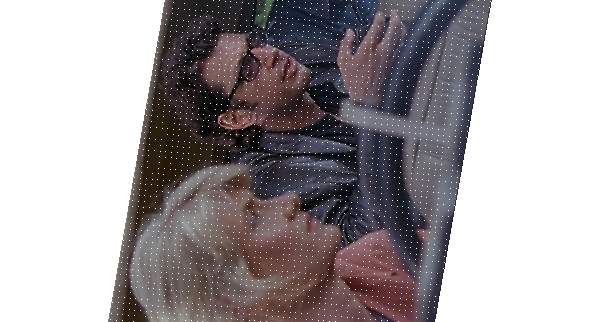
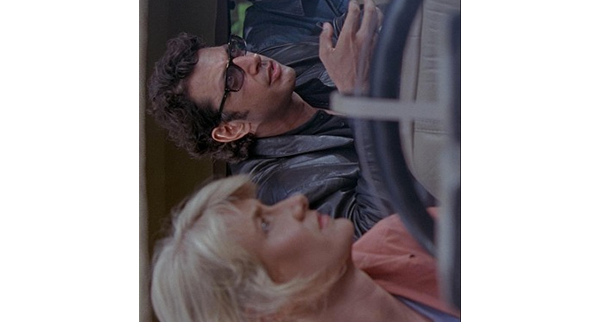
minor changes

diff --git a/1.Image_Rotation/image_rotation_nobound.py b/1.Image_Rotation/image_rotation_nobound.py
@@ -2,18 +2,6 @@ from PIL import Image
 import numpy as np
 import math
 
-
-# def rot_perfect_angles(image1,turns):
-#     if turns==0:
-#         return image1
-#     else :
-#         image=np.zeros((image1.shape[1],image1.shape[0],image1.shape[2]))
-#         for j in range(image1.shape[0]): 
-#             for i in range(image1.shape[1]): 
-#                 image[i,j,:] = image1[j,i,:]  
-#         return rot(image[::-1],turns-1)
-
-
 def floating_point(number):
     temp=int(number)
     if number>temp:
@@ -32,27 +20,16 @@ def mat_Multi(angle,x,y,k):
     return round(X),round(Y)
 
 def rot(image,angle):
+
     # Define the most occuring variables
     angle=math.radians(angle)
     cosine=math.cos(angle)
     sine=math.sin(angle)
-    
     image1=np.zeros_like(image)
-
-    # Define the height and width of the new image that is to be formed
-    # new_height = floating_point(abs(image.shape[0]*cosine)+abs(image.shape[1]*sine))
-    # new_width  = floating_point(abs(image.shape[1]*cosine)+abs(image.shape[0]*sine))
-
-    # image1=np.zeros((new_width,new_height,image.shape[2]))
 
     # Find the centre of the image about which we have to rotate the image
     centre_row   = round(((image.shape[0]+1)/2)-1)
     centre_column= round(((image.shape[1]+1)/2)-1)
-
-    # centre_height= round(((new_height+1)/2)-1)
-    # centre_width= round(((new_width+1)/2)-1)
-
-    # Now let's traverse through the image matrix
     for i in range(image.shape[0]):
             for j in range(image.shape[1]):
                 y=image.shape[0]-1-i-centre_row
@@ -63,16 +40,23 @@ def rot(image,angle):
                 Y=centre_row-Y
                 if X<image1.shape[1] and Y<image1.shape[0] and X>=0 and Y>=0:
                     image1[Y,X,:]=image[i,j,:]
+    for i in range(image1.shape[0]):
+        prev = [image1[i][0][0], image1[i][0][1], image1[i][0][2], image1[i][0][3]]
+        for j in range(image1.shape[1]-1):
+            if (not any(image1[i][j][:])):
+                if (any(image1[i][j+1][:])):
+                    image1[i][j][:] = prev
+            else:
+                prev = image1[i][j][:]
     return image1
             
 
             
 
 
-file_name="rotate.png"
+file_name=input("Enter the name of the file:- ")
 im = np.array(Image.open(file_name))
-#rotation_angle=int(input("Enter the no. of turns in clockwise direction(by 90 degree) :- "))
-im_copy=rot(im,80)
+rotation_angle=float(input("Enter the no. of turns in clockwise direction(by 90 degree) :- "))
+im_copy=rot(im,rotation_angle)
 pil_img=Image.fromarray((im_copy).astype(np.uint8))
-pil_img.save("Rotated.png")
-
+pil_img.save("rotated_without_bound.png")

diff --git a/1.Image_Rotation/image_rotation_bound.py b/1.Image_Rotation/image_rotation_bound.py
@@ -1,0 +1,69 @@
+from PIL import Image
+import numpy as np
+import math
+
+def floating_point(number):
+    temp=int(number)
+    if number>temp:
+        return round(temp+1)
+    else :
+        return round(temp)
+
+def mat_Multi(angle,x,y,k):
+    tangent=math.tan(angle/2)
+    if k==0 or k==2:
+        X=x-y*tangent
+        Y=y
+    else:
+        X=x
+        Y=x*math.sin(angle)+y
+    return round(X),round(Y)
+
+def rot(image,angle):
+    # Define the most occuring variables
+    angle=math.radians(angle)
+    cosine=math.cos(angle)
+    sine=math.sin(angle)
+    
+    # Define the height and width of the new image that is to be formed
+    new_width = floating_point(abs(image.shape[0]*cosine)+abs(image.shape[1]*sine))
+    new_height  = floating_point(abs(image.shape[1]*cosine)+abs(image.shape[0]*sine))
+
+    image1=np.zeros((floating_point(new_width),floating_point(new_height),image.shape[2]))
+
+    # Find the centre of the image about which we have to rotate the image
+    centre_row   = round(((image.shape[0]+1)/2)-1)    #with respect to the original image
+    centre_column= round(((image.shape[1]+1)/2)-1)    #with respect to the original image
+
+    centre_height= round(((new_height+1)/2)-1)        #with respect to the new image
+    centre_width= round(((new_width+1)/2)-1)          #with respect to the new image
+
+    # Now let's traverse through the image matrix
+    for i in range(image.shape[0]):
+            for j in range(image.shape[1]):
+                y=image.shape[0]-1-i-centre_row
+                x=image.shape[1]-1-j-centre_column
+                X=round(x*cosine+y*sine)
+                Y=round(-x*sine+y*cosine)
+                X=centre_height-X
+                Y=centre_width-Y
+               
+                if X<image1.shape[1] and Y<image1.shape[0] and X>=0 and Y>=0:
+                    image1[Y,X,:]=image[i,j,:]
+    for i in range(image1.shape[0]):
+        prev = [image1[i][0][0], image1[i][0][1], image1[i][0][2], image1[i][0][3]]
+        for j in range(image1.shape[1]-1):
+            if (not any(image1[i][j][:])):
+                if (any(image1[i][j+1][:])):
+                    image1[i][j][:] = prev
+            else:
+                prev = image1[i][j][:]
+    return image1
+            
+
+file_name=input("Enter the name of the file:- ")
+im = np.array(Image.open(file_name))
+rotation_angle=int(input("Enter the no. of turns in clockwise direction(by 90 degree) :- "))
+im_copy=rot(im,rotation_angle)
+pil_img=Image.fromarray((im_copy).astype(np.uint8))
+pil_img.save("rotated_with_bound.png")

diff --git a/2.Applying_Kernels/sharpen.py b/2.Applying_Kernels/sharpen.py
@@ -14,13 +14,14 @@ def convolve3d(image, kernel):
     output[:,:,3]=image[:,:,3]
     return output
 
-Sharpen1=np.array([[-1, -1, -1, -1, -1],
-                   [-1,  2,  2,  2, -1],
-                   [-1,  2,  8,  2, -1],
-                   [-1,  2,  2,  2, -1],
-                   [-1, -1, -1, -1, -1]])
 
-Sharpen=np.array([[-1,-1,-1,-1,-1],[-1,-1,-1,-1,-1],[-1,-1,25,-1,-1],[-1,-1,-1,-1,-1],[-1,-1,-1,-1,-1]])/-25
+
+Sharpen=np.array([[-1,-1,-1,-1,-1],
+                  [-1,-1,-1,-1,-1],
+                  [-1,-1,25,-1,-1],
+                  [-1,-1,-1,-1,-1],
+                  [-1,-1,-1,-1,-1]])/-25
+                  
 file_name="test_sharpen.png"
 im = np.array(Image.open(file_name))
 im=convolve3d(im,Sharpen)

diff --git a/3.Edge_Detection/canny.py b/3.Edge_Detection/canny.py
@@ -58,24 +58,17 @@ def non_max_suppression(img,D):
     return Z
 
 def threshold(img, weak,strong,lowThresholdRatio=0.05, highThresholdRatio=0.09):
-    
     highThreshold = img.max() * highThresholdRatio
     lowThreshold = highThreshold * lowThresholdRatio
-    
     M, N = img.shape
     res = np.zeros((M,N), dtype=np.int32)
-    
     weak = np.int32(weak)
     strong = np.int32(strong)
-    
     strong_i, strong_j = np.where(img >= highThreshold)
     zeros_i, zeros_j = np.where(img < lowThreshold)
-    
     weak_i, weak_j = np.where((img <= highThreshold) & (img >= lowThreshold))
-    
     res[strong_i, strong_j] = strong
     res[weak_i, weak_j] = weak
-    
     return res
 
 def hysteresis(img, weak, strong):

diff --git a/2.Applying_Kernels/blurring.py b/2.Applying_Kernels/blurring.py
@@ -21,10 +21,10 @@ gaussian_blurr=np.array([[1,  4,  6,  4, 1],
 
 box_blur=np.array([[1,1,1],
                    [1,1,1],
-                   [1,1,1]])
-file_name="test_blur.jpg"
+                   [1,1,1]])/9
+file_name="test_sharpen.png"
 im = np.array(Image.open(file_name))
-pil_img=Image.fromarray(convolve3d(im, gaussian_blurr))
-pil_img.save('result_blur.jpg')
+pil_img=Image.fromarray(convolve3d(im, box_blur))
+pil_img.save('result_box_blur.png')
 
 
